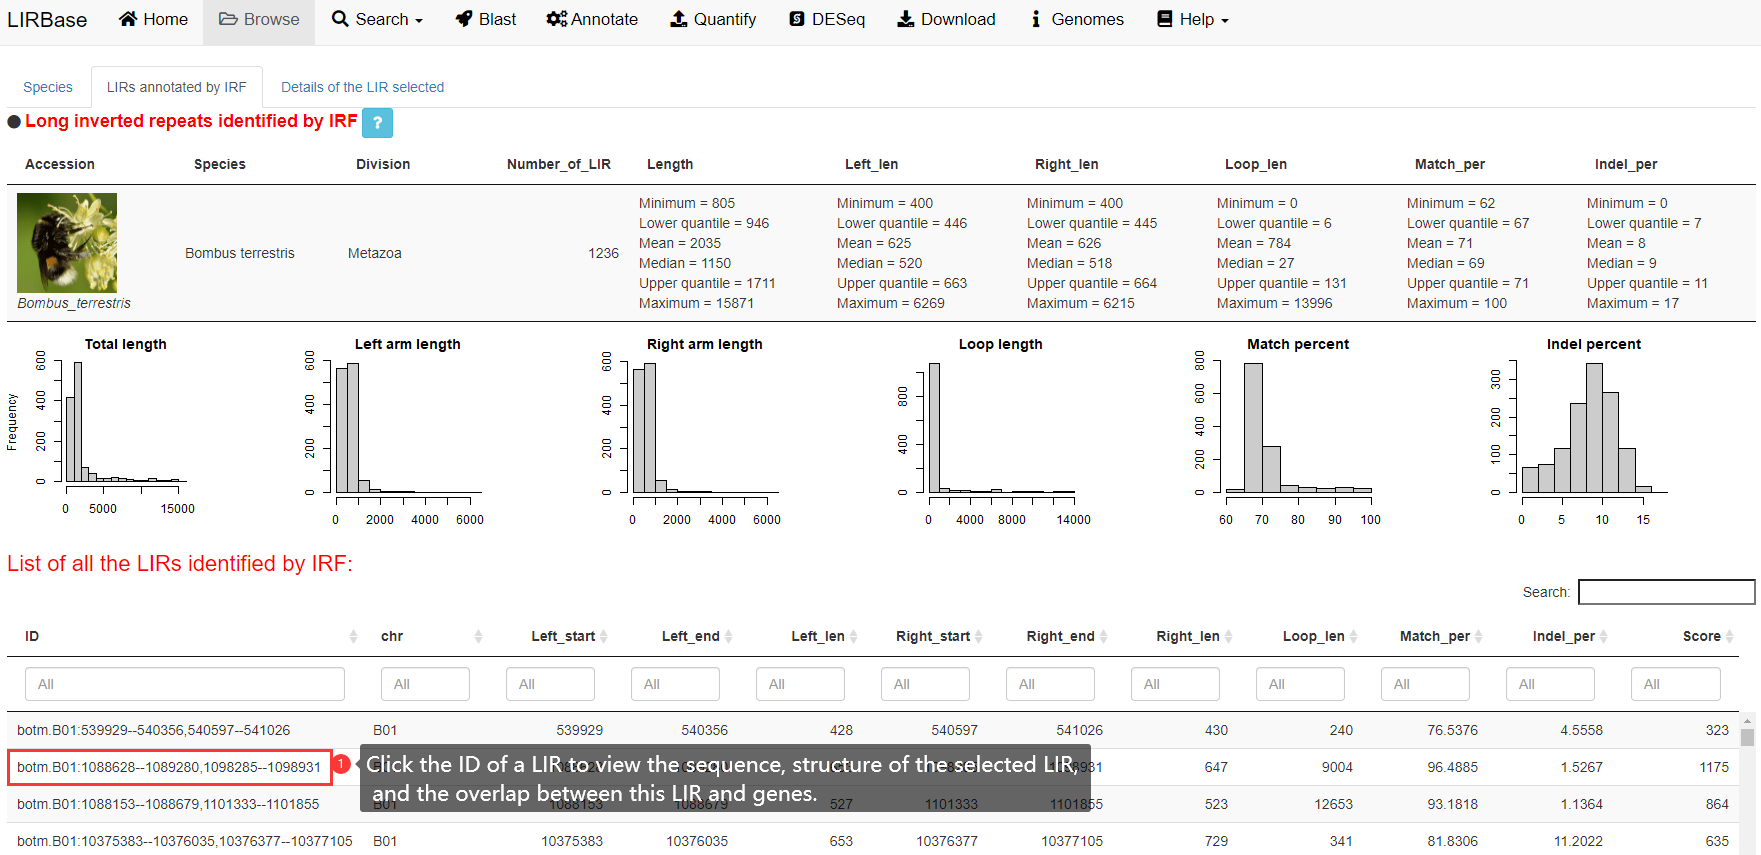
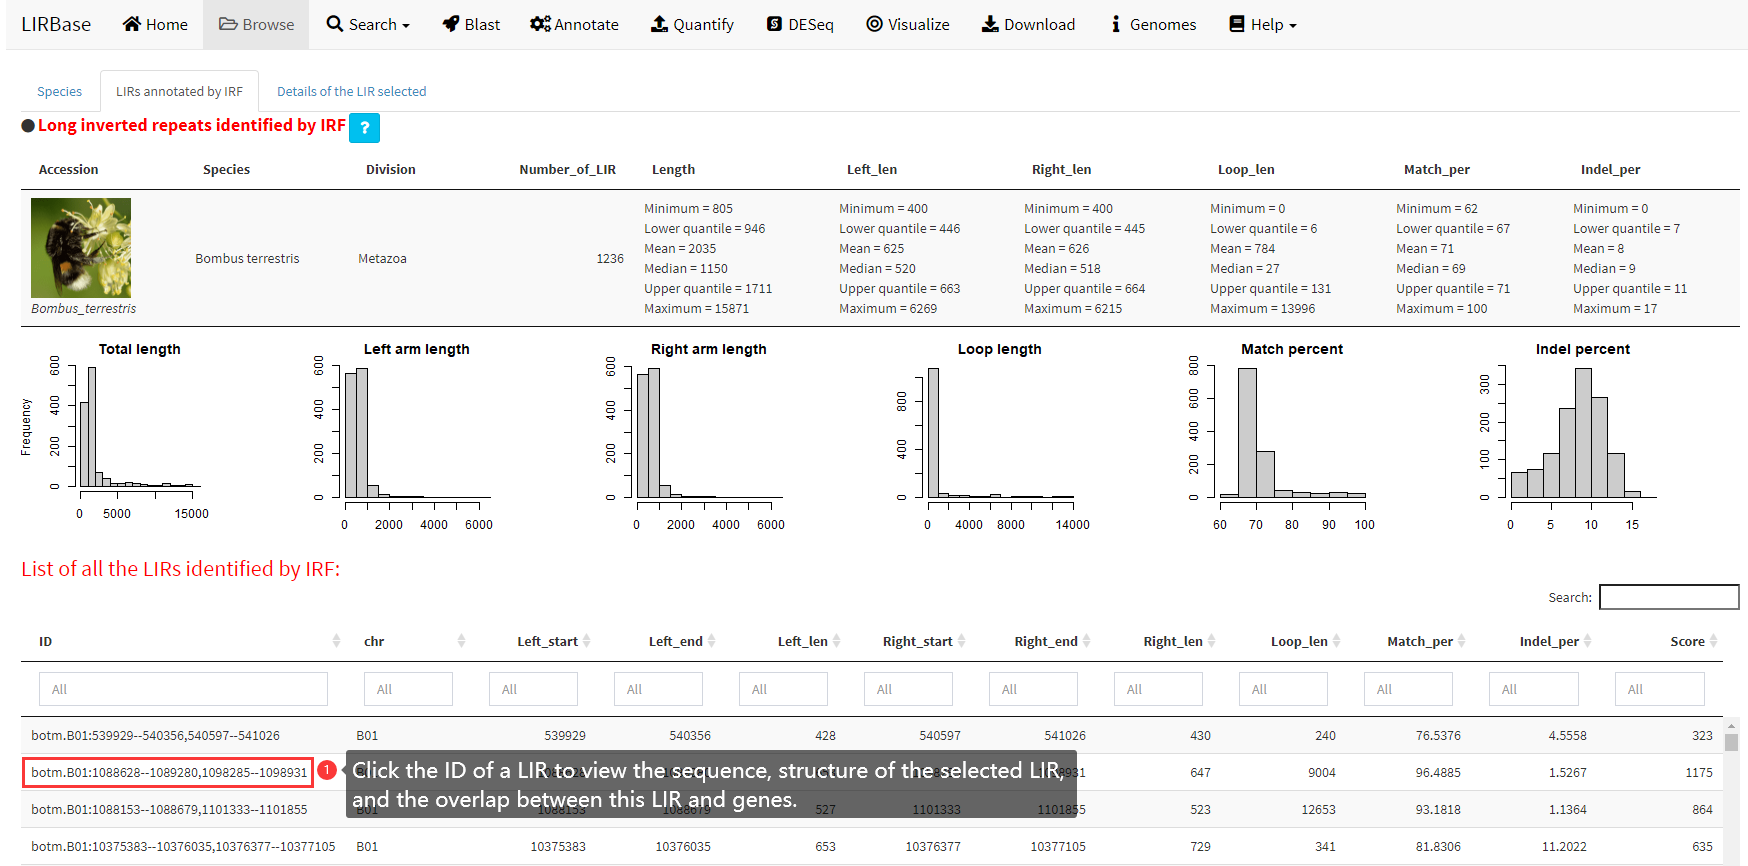
update Tutorial

diff --git a/Tutorial.md b/Tutorial.md
@@ -31,17 +31,17 @@
 <div align=center><img src="Fig4.png" width="85%" height="85%" align=center /></div>
 <div align=center><font color=blue size=4>Figure 4. Detailed information of a selected LIR.</font></div>  
 
-## **2. Search LIRBase for LIRs in a specific genome by genomic regions**
+## **2. Search LIRBase for LIRs in a specific genome by genomic locations**
 
->&emsp;&emsp;LIRBase allows searching for LIRs of any of the 424 eukaryotic genomes by genomic regions (Figure 5). The detailed steps are shown in Figure 6.
+>&emsp;&emsp;LIRBase allows searching for LIRs of any of the 424 eukaryotic genomes by genomic locations (Figure 5). The detailed steps are shown in Figure 6.
 
 <div align=center><img src="Fig5.png" width="85%" height="85%" align=center /></div>
-<div align=center><font color=blue size=4>Figure 5. The &quot;Search by genomic region&quot; submenu of the &quot;Search&quot; menu.</font></div>  
+<div align=center><font color=blue size=4>Figure 5. The &quot;Search by genomic location&quot; submenu of the &quot;Search&quot; menu.</font></div>  
 
 <br/>
 
 <div align=center><img src="Fig6.png" width="85%" height="85%" align=center /></div>
-<div align=center><font color=blue size=4>Figure 6. Steps to search LIRBase by genomic region.</font></div>  
+<div align=center><font color=blue size=4>Figure 6. Steps to search LIRBase by genomic location.</font></div>  
 
 ## **3. Search LIRBase for LIRs in a specific genome by the identifiers of LIRs**
 
@@ -90,7 +90,7 @@
 
 ## **6. Annotate and quantify the expression level of LIRs using sRNA sequencing data**
 
->&emsp;&emsp;When transcribed, long inverted repeat can form long hairpin RNA genes (hpRNAs), which are much longer than typical animal or plant pre-miRNAs. Okamura et al. (2008) reported the biogenesis of 21–22-nucleotide small interfering RNAs (siRNAs) from long hpRNAs in _Drosophila_ for the first time. This siRNA biogenesis pathway was soon reported in _Arabidopsis_ (Dunoyer et al. 2010).
+>&emsp;&emsp;When transcribed, long inverted repeat can form long hairpin RNA genes (hpRNAs), which are much longer than typical animal or plant pre-miRNAs. Henderson et al. (2006) reported the biogenesis of small interfering RNAs (siRNAs) from long inverted repeat in _Arabidopsis thaliana_ for the first time. This siRNA biogenesis pathway was soon reported and verified in other animals and plants.
 
 >&emsp;&emsp;To facilitate the annotation of small RNAs derived from LIRs archived in LIRBase, we implemented a functionality in LIRBase allowing alignment of user-uploaded small RNA sequencing data to all the identified LIRs of a genome (Figure 14). The input data should be read count of small RNAs rather than the raw small sequencing data as shown in Figure 14. The input small RNA read count data can be pasted in a text area provided or be uploaded from a local text file.
 
@@ -113,23 +113,30 @@
 <div align=center><img src="Fig16.png" width="85%" height="85%" align=center /></div>
 <div align=center><font color=blue size=4>Figure 16. The &quot;DESeq&quot; menu of LIRBase to perform differential expression analysis of LIRs/sRNAs.</font></div>  
 
-## **8. Download LIRs of 424 eukaryotic genomes, the BLAST database and the Bowtie index database**
+## **8. Predict and visualize the secondary structure of the potential hpRNA encoded by a LIR**
 
->&emsp;&emsp;In addition to be used online at [http://venyao.xyz/lirbase/](http://venyao.xyz/lirbase/), LIRBase can be deployed on a personal local or web Linux server. Deployment of LIRBase is platform independent, i.e., LIRBase can be deployed on any platform with the R environment available. The detailed steps are described in the &quot;Installation&quot; submenu of the &quot;Help&quot; menu of LIRBase (Figure 17). The source code of LIRBase is deposited in GitHub ([https://github.com/venyao/LIRBase](https://github.com/venyao/LIRBase)). As the file size of identified LIRs and the corresponding BLAST/Bowtie databases of the 424 eukaryotic genomes are too large, these datasets were not uploaded to GitHub. Instead, these data can be downloaded from [http://venyao.xyz/lirbase/](http://venyao.xyz/lirbase/) through the &quot;Download&quot; menu (Figure 18).
+>We utilized the RNAfold software to predict and visualize the secondary structure of the potential hpRNA encoded by a LIR (Figure 17). The DNA sequence of a single LIR should be inputted at a time. The secondary structure in dot-bracket notation and the secondary structure in PDF image are displayed in the output, which can also be downloaded.
 
 <div align=center><img src="Fig17.png" width="85%" height="85%" align=center /></div>
-<div align=center><font color=blue size=4>Figure 17. The &quot;Installation&quot; submenu of the &quot;Help&quot; menu of LIRBase.</font></div>  
+<div align=center><font color=blue size=4>Figure 17. The 'Visualize' menu of LIRBase.</font></div>  
+
+## **9. Download LIRs of 424 eukaryotic genomes, the BLAST database and the Bowtie index database**
+
+>&emsp;&emsp;In addition to be used online at [http://venyao.xyz/lirbase/](http://venyao.xyz/lirbase/), LIRBase can be deployed on a personal local or web Linux server. Deployment of LIRBase is platform independent, i.e., LIRBase can be deployed on any platform with the R environment available. The detailed steps are described in the &quot;Installation&quot; submenu of the &quot;Help&quot; menu of LIRBase (Figure 18). The source code of LIRBase is deposited in GitHub ([https://github.com/venyao/LIRBase](https://github.com/venyao/LIRBase)). As the file size of identified LIRs and the corresponding BLAST/Bowtie databases of the 424 eukaryotic genomes are too large, these datasets were not uploaded to GitHub. Instead, these data can be downloaded from [http://venyao.xyz/lirbase/](http://venyao.xyz/lirbase/) through the &quot;Download&quot; menu (Figure 19).
+
+<div align=center><img src="Fig18.png" width="85%" height="85%" align=center /></div>
+<div align=center><font color=blue size=4>Figure 18. The &quot;Installation&quot; submenu of the &quot;Help&quot; menu of LIRBase.</font></div>  
 
 <br/>
 
-<div align=center><img src="Fig18.png" width="85%" height="85%" align=center /></div>
-<div align=center><font color=blue size=4>Figure 18. The &quot;Download&quot; menu of LIRBase.</font></div>  
-
-## **9. Information of 424 genomes collected in LIRBase**
-
->&emsp;&emsp;The information of 424 genomes collected in LIRBase is displayed in the &quot;Genomes&quot; menu of LIRBase (Figure 19).
-
 <div align=center><img src="Fig19.png" width="85%" height="85%" align=center /></div>
-<div align=center><font color=blue size=4>Figure 19. The &quot;Genomes&quot; menu of LIRBase.</font></div>  
+<div align=center><font color=blue size=4>Figure 19. The &quot;Download&quot; menu of LIRBase.</font></div>  
+
+## **10. Information of 424 genomes collected in LIRBase**
+
+>&emsp;&emsp;The information of 424 genomes collected in LIRBase is displayed in the &quot;Genomes&quot; menu of LIRBase (Figure 20).
+
+<div align=center><img src="Fig20.png" width="85%" height="85%" align=center /></div>
+<div align=center><font color=blue size=4>Figure 20. The &quot;Genomes&quot; menu of LIRBase.</font></div>  
 
 <br/>

diff --git a/README.md b/README.md
@@ -10,6 +10,7 @@ LIRBase
 >5. **Detect and annotate long inverted repeats** in user-uploaded DNA sequences.  
 >6. **Align small RNA sequencing data to long inverted repeats** of a specific genome to detect the origination of small RNAs from long inverted repeats and quantify the expression level of small RNAs and long inverted repeats.  
 >7. Perform **differential expression analysis of long inverted repeats or small RNAs** between different biological samples/tissues.  
+>8. Predict and visualize the **secondary structure of potential hpRNA encoded by a LIR** using RNAfold.  
 
 *****
 
